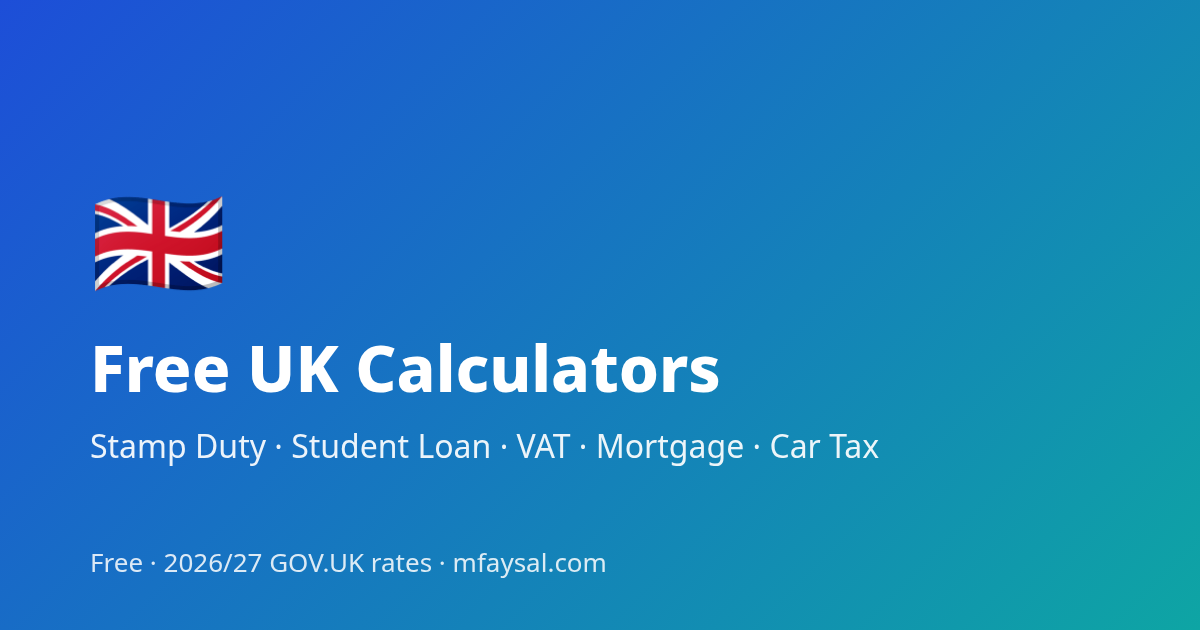
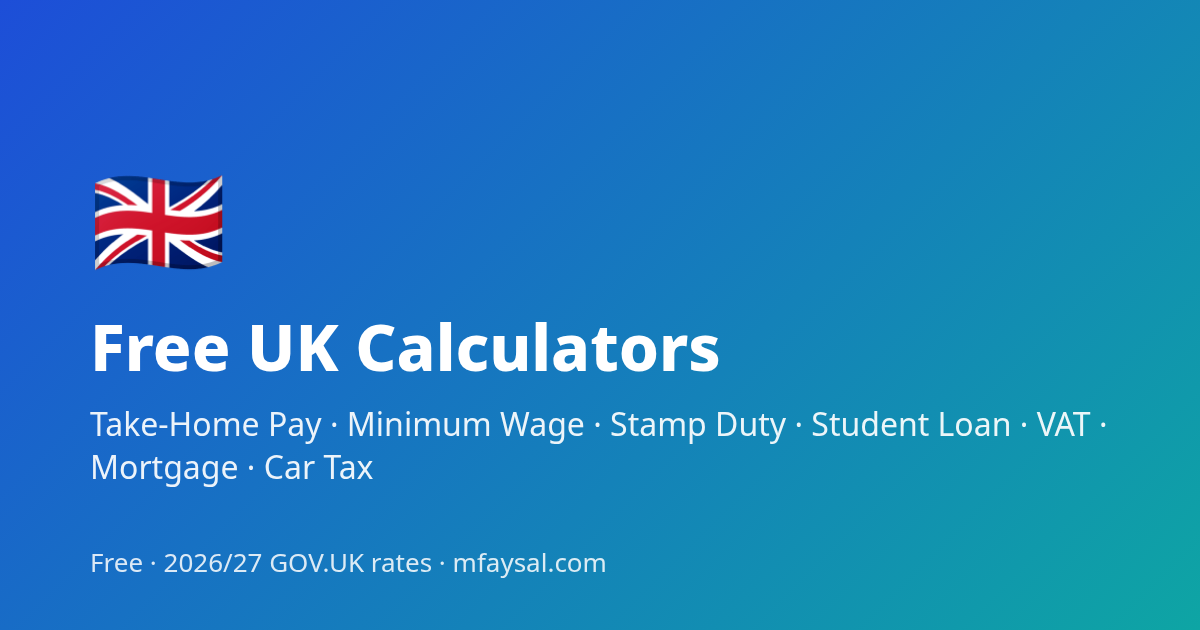
Add take-home pay and minimum wage calculators (2026/27 GOV.UK rates) with tests

Changed region(s): [[0.0617, 0.5127, 0.6167, 0.6333], [0.0617, 0.6333, 0.925, 0.7841], [0.0617, 0.2714, 0.185, 0.4825]]

diff --git a/build.js b/build.js
@@ -89,6 +89,45 @@ const tools = [
   ${[['0','£10','£10'],['1–50','£115','£135'],['51–75','£135','£280'],['76–90','£280','£365'],['91–100','£365','£405'],['101–110','£405','£455'],['111–130','£455','£560'],['131–150','£560','£1,410'],['151–170','£1,410','£2,270'],['171–190','£2,270','£3,420'],['191–225','£3,420','£4,850'],['226–255','£4,850','£5,690'],['Over 255','£5,690','£5,690']].map(r=>`<tr><td>${r[0]}</td><td>${r[1]}</td><td>${r[2]}</td></tr>`).join('')}</tbody></table>`,
   sources:[['GOV.UK / DVLA – V149 rates of vehicle tax from 1 April 2026','https://www.gov.uk/government/publications/rates-of-vehicle-tax-v149'],['GOV.UK – Vehicle tax for electric and low emission vehicles','https://www.gov.uk/guidance/vehicle-tax-for-electric-and-low-emissions-vehicles'],['GOV.UK – Check vehicle tax rates','https://www.gov.uk/vehicle-tax-rate-tables']],
   faq:[['Do electric cars pay road tax in 2026?','Yes. Since April 2025 EVs pay £10 in the first year then the £200 standard rate, plus £440 if the list price was over £50,000.'],['Is this for older cars?','No – cars registered before 1 April 2017 are taxed on CO2 bands. Use the GOV.UK vehicle tax checker for those.']]},
+{ slug:'take-home-pay-calculator', ico:'💷', short:'Take-Home Pay', title:'Take-Home Pay Calculator UK 2026/27 – Income Tax, NI & Pension',
+  h1:'Take-Home Pay Calculator (Income Tax & National Insurance)',
+  desc:'Free UK salary calculator for 2026/27. See your take-home pay after income tax (England, Wales, NI or Scotland), National Insurance, pension and student loan – yearly, monthly and weekly.',
+  intro:'Enter your yearly salary to see what lands in your bank account after tax, National Insurance, pension and student loan.',
+  form: seg('region','Where do you pay income tax?',[['ruk','England, Wales or NI'],['sco','Scotland']],'ruk') + money('salary','Yearly salary before tax',35000) +
+    seg('pensionType','Workplace pension',[['none','None'],['net','Net pay / relief at source (approx.)'],['sacrifice','Salary sacrifice']],'none') + num('pension','Pension contribution','5','% of salary','0.5') +
+    `<fieldset><legend>Student loan</legend>${chk('plan1','Plan 1')}${chk('plan2','Plan 2')}${chk('plan4','Plan 4 (Scotland)')}${chk('plan5','Plan 5')}${chk('pg','Postgraduate Loan')}</fieldset>`,
+  js:`var plans=['plan1','plan2','plan4','plan5'].filter(function(k){return val(k)});
+  var r=UKCalc.takeHome({salary:+val('salary'),region:radio('region'),pension:+val('pension'),pensionType:radio('pensionType'),plans:plans,pg:val('pg')});
+  out.innerHTML='<p class="hint">Take-home pay per year</p><p class="big">'+fmt(r.net)+'</p><dl class="kv"><dt>Per month</dt><dd>'+fmt(r.monthly)+'</dd><dt>Per week</dt><dd>'+fmt(r.weekly)+'</dd><dt>Income tax</dt><dd>'+fmt(r.incomeTax)+'</dd><dt>National Insurance</dt><dd>'+fmt(r.ni)+'</dd>'
+  +(r.pension?'<dt>Pension</dt><dd>'+fmt(r.pension)+'</dd>':'')+(r.studentLoan?'<dt>Student loan</dt><dd>'+fmt(r.studentLoan)+'</dd>':'')
+  +'<dt>Personal Allowance</dt><dd>'+fmt(r.personalAllowance)+'</dd><dt>Marginal rate (tax + NI)</dt><dd>'+r.marginal+'%</dd></dl>'
+  +'<table><caption class="sr">Income tax by band</caption><thead><tr><th scope="col">Taxable income</th><th scope="col">Rate</th><th scope="col">Tax</th></tr></thead><tbody>'+r.rows.map(function(x){return '<tr><td>'+fmt(x.from)+' – '+fmt(x.to)+'</td><td>'+Math.round(x.rate*100)+'%</td><td>'+fmt(x.tax)+'</td></tr>'}).join('')+'</tbody></table>';`,
+  prose:`<h2>Income tax rates ${YEAR}</h2><p><strong>England, Wales and Northern Ireland:</strong> Personal Allowance £12,570 at 0%, basic rate 20% on £12,571 to £50,270, higher rate 40% on £50,271 to £125,140, additional rate 45% above £125,140.</p>
+  <p><strong>Scotland:</strong> starter 19% (£12,571–£16,537), basic 20% (to £29,526), intermediate 21% (to £43,662), higher 42% (to £75,000), advanced 45% (to £125,140) and top 48% above.</p>
+  <p>Your Personal Allowance falls by £1 for every £2 of adjusted net income over £100,000, so it is zero at £125,140. Between those figures the effective income tax rate is 60%.</p>
+  <h2>National Insurance ${YEAR}</h2><p>Employees pay Class 1 NI at <strong>8%</strong> on earnings between £12,570 and £50,270 a year (£242 to £967 a week) and <strong>2%</strong> above that.</p>
+  <h2>Worked example</h2><p>£30,000 salary in England: tax = 20% × (£30,000 − £12,570) = <strong>£3,486</strong>; NI = 8% × £17,430 = <strong>£1,394.40</strong>; take-home = <strong>£25,119.60</strong> a year (£2,093.30 a month).</p>`,
+  sources:[['GOV.UK – Income Tax rates and Personal Allowances','https://www.gov.uk/income-tax-rates'],['GOV.UK – Scottish Income Tax 2026 to 2027','https://www.gov.uk/scottish-income-tax'],['GOV.UK – Rates and allowances: National Insurance contributions','https://www.gov.uk/government/publications/rates-and-allowances-national-insurance-contributions/rates-and-allowances-national-insurance-contributions'],['GOV.UK – Repaying your student loan','https://www.gov.uk/repaying-your-student-loan/what-you-pay']],
+  faq:[['What is the tax-free Personal Allowance for 2026/27?','£12,570, frozen until April 2031. It is reduced by £1 for every £2 of income over £100,000.'],['Why is my payslip slightly different?','Payroll works out tax and NI per pay period using your tax code, so monthly figures can differ by a few pounds. Bonuses, benefits in kind and a non-standard tax code also change the result.'],['Does salary sacrifice save National Insurance?','Yes. Salary sacrifice reduces your pay before both tax and NI. Net pay arrangements save tax but not NI.']]},
+
+{ slug:'minimum-wage-calculator', ico:'⏱', short:'Minimum Wage', title:'Minimum Wage Calculator UK April 2026 – Am I Paid Enough?',
+  h1:'Minimum Wage Checker (National Living Wage 2026)',
+  desc:'Check your hourly pay against the UK National Living Wage (£12.71) and National Minimum Wage rates from 1 April 2026 for your age and apprenticeship, and see any shortfall.',
+  intro:'Enter your age, hourly pay and hours to check you are getting at least the legal minimum.',
+  form: num('age','Your age','22','years','1') + chk('apprentice','I am an apprentice') + chk('firstYear','I am in the first year of my apprenticeship') +
+    money('hourly','Your hourly pay','12.50','before tax') + num('hours','Hours per week','37.5','','0.5') + seg('year','Rates',[['2026','From 1 April 2026'],['2025','April 2025 – March 2026']],'2026'),
+  js:`var r=UKCalc.minWage({age:+val('age'),apprentice:val('apprentice'),firstYear:val('firstYear'),hourly:+val('hourly'),hours:+val('hours'),year:radio('year')});
+  out.innerHTML='<p class="hint">'+r.band+' from '+r.from+'</p><p class="big">'+fmt(r.rate)+' an hour</p>'
+  +(r.ok===undefined?'':(r.ok?'<p><strong>✅ Your pay meets the legal minimum.</strong></p>':'<p><strong>⚠ You may be underpaid by '+fmt(r.shortPerHour)+' an hour ('+fmt(r.shortPerWeek)+' a week, about '+fmt(r.shortPerYear)+' a year).</strong></p>'))
+  +'<dl class="kv"><dt>Minimum per week</dt><dd>'+fmt(r.weeklyMin)+'</dd><dt>Minimum per month (approx.)</dt><dd>'+fmt(r.monthlyMin)+'</dd><dt>Minimum per year</dt><dd>'+fmt(r.yearlyMin)+'</dd></dl>'
+  +'<ul class="notes"><li>Check deductions for uniforms, tools or accommodation too – they can take pay below the minimum. Talk to Acas (0300 123 1100) if you think you are underpaid.</li></ul>';`,
+  prose:`<h2>Minimum wage rates from 1 April 2026</h2><table><thead><tr><th scope="col">Age / type</th><th scope="col">April 2026</th><th scope="col">April 2025</th></tr></thead><tbody>
+  <tr><td>21 and over (National Living Wage)</td><td>£12.71</td><td>£12.21</td></tr><tr><td>18 to 20</td><td>£10.85</td><td>£10.00</td></tr><tr><td>Under 18</td><td>£8.00</td><td>£7.55</td></tr><tr><td>Apprentice</td><td>£8.00</td><td>£7.55</td></tr></tbody></table>
+  <h2>Who gets the apprentice rate?</h2><p>Apprentices under 19, or aged 19 and over in the first year of their apprenticeship, can be paid the apprentice rate. After the first year, apprentices aged 19 or over must get the minimum wage for their age.</p>
+  <h2>Worked example</h2><p>A 25-year-old working 37.5 hours a week must earn at least 37.5 × £12.71 = <strong>£476.63</strong> a week, or <strong>£24,784.50</strong> a year.</p>`,
+  sources:[['GOV.UK – National Minimum Wage and National Living Wage rates','https://www.gov.uk/national-minimum-wage-rates'],['GOV.UK – Who gets the minimum wage','https://www.gov.uk/national-minimum-wage/who-gets-the-minimum-wage'],['Acas – National Minimum Wage and National Living Wage','https://www.acas.org.uk/national-minimum-wage-entitlement']],
+  faq:[['What is the National Living Wage in 2026?','£12.71 an hour for workers aged 21 and over, from 1 April 2026 (up from £12.21).'],['What is the minimum wage for an 18 year old in 2026?','£10.85 an hour for 18 to 20 year olds, or £8.00 if they are an apprentice.'],['What can I do if I am underpaid?','Speak to your employer first, then contact Acas or complain to HMRC. Employers must pay back arrears at current rates.']]}
+
 ];
 
 const nav = cur => `<nav class="nav" aria-label="Main"><a href="/">🇬🇧 UK Calculators</a><div class="links">${tools.map(t=>`<a href="/${t.slug}/"${t.slug===cur?' aria-current="page"':''}>${t.short}</a>`).join('')}</div></nav>`;
@@ -114,7 +153,7 @@ ${foot}<script src="/assets/calc.js"></script><script src="/assets/ui.js"></scri
 }
 
 function home() {
-  const t = { title:'Free UK Calculators 2026/27 – Stamp Duty, Student Loan, VAT, Mortgage & Car Tax', desc:'Five free, fast UK calculators using official 2026/27 GOV.UK rates: stamp duty (SDLT/LBTT/LTT), student loan repayments, VAT, mortgage repayments and car tax.', slug:'' };
+  const t = { title:'Free UK Calculators 2026/27 – Take-Home Pay, Stamp Duty, Student Loan & More', desc:'Seven free, fast UK calculators using official 2026/27 GOV.UK rates: take-home pay, minimum wage, stamp duty, student loan, VAT, mortgage and car tax.', slug:'' };
   const ld = {'@context':'https://schema.org','@type':'WebSite',name:'UK Calculators',url:BASE+'/',inLanguage:'en-GB',author:{'@type':'Person',name:'Mahir Faysal',url:'https://mfaysal.com/'}};
   return head(t,BASE+'/',ld)+`<body><header class="top"><div class="wrap">${nav('')}<div class="hero"><h1>Free UK Calculators</h1><p>Quick, private and free – everything runs in your browser. Built on official ${YEAR} rates from GOV.UK.</p></div></div></header>
 <main class="wrap"><div class="tools">${tools.map(x=>`<a href="/${x.slug}/"><div class="card"><div class="ico" aria-hidden="true">${x.ico}</div><h2>${x.h1}</h2><p>${x.desc}</p></div></a>`).join('')}</div>
@@ -127,7 +166,7 @@ if (fs.existsSync(path.join(__dirname,'og'))) fs.cpSync(path.join(__dirname,'og'
 fs.writeFileSync(out+'/index.html', home());
 for (const t of tools) { fs.mkdirSync(out+'/'+t.slug,{recursive:true}); fs.writeFileSync(out+'/'+t.slug+'/index.html', page(t)); }
 fs.writeFileSync(out+'/robots.txt', `User-agent: *\nAllow: /\nSitemap: ${BASE}/sitemap.xml\n`);
-fs.writeFileSync(out+'/sitemap.xml', `<?xml version="1.0" encoding="UTF-8"?><urlset xmlns="http://www.sitemaps.org/schemas/sitemap/0.9">${['',...tools.map(t=>t.slug+'/')].map(s=>`<url><loc>${BASE}/${s}</loc><lastmod>2026-10-12</lastmod></url>`).join('')}</urlset>\n`);
+fs.writeFileSync(out+'/sitemap.xml', `<?xml version="1.0" encoding="UTF-8"?><urlset xmlns="http://www.sitemaps.org/schemas/sitemap/0.9">${['',...tools.map(t=>t.slug+'/')].map(s=>`<url><loc>${BASE}/${s}</loc><lastmod>2026-10-13</lastmod></url>`).join('')}</urlset>\n`);
 fs.writeFileSync(out+'/404.html', home().replace('<h1>Free UK Calculators</h1>','<h1>Page not found</h1>'));
 fs.writeFileSync(path.join(__dirname,'tools.json'), JSON.stringify(tools.map(t=>({slug:t.slug,title:t.title,h1:t.h1,desc:t.desc,ico:t.ico})),null,1));
 console.log('built', tools.length, 'tools ->', BASE);

diff --git a/assets/calc.js b/assets/calc.js
@@ -43,7 +43,16 @@
       standard: 200, supplement: 440, threshold: 40000, thresholdEV: 50000,
       sixMonth: 110, ddMonthlyTotal: 210, ddSixMonthly: 105
     },
-    vat: { standard: .20, reduced: .05, zero: 0 }
+    vat: { standard: .20, reduced: .05, zero: 0 },
+    // Income tax 2026/27 – bands are on TAXABLE income (after Personal Allowance)
+    incomeTax: { pa: 12570, taperFrom: 100000,
+      ruk: [[37700, .20], [125140, .40], [INF, .45]],
+      sco: [[3967, .19], [16956, .20], [31092, .21], [62430, .42], [125140, .45], [INF, .48]] },
+    // Employee Class 1 NI 2026/27 (annual equivalents of PT £242/wk and UEL £967/wk as used by HMRC: £12,570 / £50,270)
+    ni: { pt: 12570, uel: 50270, main: .08, upper: .02 },
+    // National Minimum Wage / National Living Wage hourly rates
+    nmw: { '2026': { from: '1 April 2026', a21: 12.71, a18: 10.85, u18: 8.00, app: 8.00 },
+           '2025': { from: '1 April 2025', a21: 12.21, a18: 10.00, u18: 7.55, app: 7.55 } }
   };
 
   function stampDuty(o) {
@@ -122,6 +131,45 @@
              sixYearTotal: first + std * 5 };
   }
 
-  var api = { RATES: RATES, banded: banded, stampDuty: stampDuty, studentLoan: studentLoan, vat: vat, mortgage: mortgage, carTax: carTax };
+  // Take-home pay (annual). o: salary, region 'ruk'|'sco', pension %, pensionType 'none'|'net'|'sacrifice', plans[], pg
+  function takeHome(o) {
+    var T = RATES.incomeTax, N = RATES.ni, gross = Math.max(0, +o.salary || 0);
+    var pct = Math.max(0, +o.pension || 0) / 100, ptype = o.pensionType || 'none';
+    var pension = ptype === 'none' ? 0 : r2(gross * pct);
+    var niPay = ptype === 'sacrifice' ? gross - pension : gross;       // sacrifice lowers NI-able pay
+    var taxPay = gross - pension;                                     // both net pay and sacrifice lower taxable pay
+    var pa = Math.max(0, T.pa - Math.floor(Math.max(0, taxPay - T.taperFrom) / 2));
+    var taxable = Math.max(0, taxPay - pa);
+    var bands = o.region === 'sco' ? T.sco : T.ruk;
+    var it = banded(taxable, bands);
+    var ni = r2(Math.max(0, Math.min(niPay, N.uel) - N.pt) * N.main + Math.max(0, niPay - N.uel) * N.upper);
+    var sl = studentLoan({ income: niPay, plans: o.plans || [], pg: o.pg, period: 'year' });
+    var net = r2(gross - pension - it.tax - ni - sl.total);
+    return { gross: r2(gross), pension: pension, personalAllowance: pa, taxable: r2(taxable), incomeTax: it.tax, rows: it.rows,
+      ni: ni, studentLoan: sl.total, net: net, monthly: r2(net / 12), weekly: r2(net / 52),
+      marginal: marginalRate(o), effectiveRate: gross ? r2((it.tax + ni) / gross * 100) : 0 };
+  }
+  function marginalRate(o) {
+    // simple numeric marginal rate on tax + NI for the next £100
+    if (o._m) return null;
+    var a = takeHomeRaw(o, 0), b = takeHomeRaw(o, 100);
+    return r2((1 - (b - a) / 100) * 100);
+  }
+  function takeHomeRaw(o, add) { var c = {}; for (var k in o) c[k] = o[k]; c._m = 1; c.salary = (+o.salary || 0) + add; return takeHome(c).net; }
+
+  // Minimum wage check. o: age, apprentice, firstYear, hourly, hours (per week), year '2026'|'2025'
+  function minWage(o) {
+    var R = RATES.nmw[o.year || '2026'], age = +o.age || 0, band, rate;
+    if (o.apprentice && (age < 19 || o.firstYear)) { band = 'Apprentice rate'; rate = R.app; }
+    else if (age >= 21) { band = 'National Living Wage (21 and over)'; rate = R.a21; }
+    else if (age >= 18) { band = 'National Minimum Wage (18 to 20)'; rate = R.a18; }
+    else { band = 'National Minimum Wage (under 18)'; rate = R.u18; }
+    var hours = Math.max(0, +o.hours || 0), hourly = +o.hourly || 0;
+    var res = { band: band, rate: rate, from: R.from, weeklyMin: r2(rate * hours), yearlyMin: r2(rate * hours * 52), monthlyMin: r2(rate * hours * 52 / 12) };
+    if (hourly) { res.ok = hourly >= rate; res.shortPerHour = r2(Math.max(0, rate - hourly)); res.shortPerWeek = r2(res.shortPerHour * hours); res.shortPerYear = r2(res.shortPerHour * hours * 52); }
+    return res;
+  }
+
+  var api = { RATES: RATES, banded: banded, stampDuty: stampDuty, studentLoan: studentLoan, vat: vat, mortgage: mortgage, carTax: carTax, takeHome: takeHome, minWage: minWage };
   if (typeof module !== 'undefined' && module.exports) module.exports = api; else root.UKCalc = api;
 })(this);

diff --git a/tests/calc.test.js b/tests/calc.test.js
@@ -28,3 +28,24 @@ test('VED EV first year £10, standard £200', () => { const r = C.carTax({ fuel
 test('VED EV over £50k = £640', () => assert.equal(C.carTax({ fuel: 'electric', listPrice: 55000 }).standard, 640));
 test('VED petrol over £40k = £640, 6-month £352', () => { const r = C.carTax({ co2: 120, listPrice: 45000 }); assert.equal(r.standard, 640); assert.equal(r.sixMonth, 352); });
 test('VED DD monthly standard £17.50', () => assert.equal(C.carTax({ co2: 120 }).ddMonthly, 17.5));
+// Take-home pay 2026/27 (hand-checked against GOV.UK income tax and NI rates)
+test('Take-home £30,000 rUK: tax £3,486, NI £1,394.40', () => { const r = C.takeHome({ salary: 30000 }); assert.equal(r.incomeTax, 3486); assert.equal(r.ni, 1394.4); assert.equal(r.net, 25119.6); });
+test('Take-home £60,000 rUK: tax £11,432, NI £3,210.60', () => { const r = C.takeHome({ salary: 60000 }); assert.equal(r.incomeTax, 11432); assert.equal(r.ni, 3210.6); });
+test('Personal allowance tapers to 0 at £125,140', () => assert.equal(C.takeHome({ salary: 125140 }).personalAllowance, 0));
+test('£110,000 PA = £7,570', () => assert.equal(C.takeHome({ salary: 110000 }).personalAllowance, 7570));
+test('£110,000 marginal rate 62% (60% tax + 2% NI)', () => assert.equal(C.takeHome({ salary: 110000 }).marginal, 62));
+test('Scotland £30,000 tax: 19%×3,967 + 20%×12,989 + 21%×474', () => assert.equal(C.takeHome({ salary: 30000, region: 'sco' }).incomeTax, 3451.07));
+test('Below allowance = no tax, no NI', () => { const r = C.takeHome({ salary: 12000 }); assert.equal(r.incomeTax, 0); assert.equal(r.ni, 0); assert.equal(r.net, 12000); });
+test('Salary sacrifice 5% of £40,000 cuts tax and NI', () => { const r = C.takeHome({ salary: 40000, pension: 5, pensionType: 'sacrifice' }); assert.equal(r.pension, 2000); assert.equal(r.incomeTax, 5086); assert.equal(r.ni, 2034.4); });
+test('Net-pay pension keeps NI on full pay', () => assert.equal(C.takeHome({ salary: 40000, pension: 5, pensionType: 'net' }).ni, 2194.4));
+test('Plan 2 student loan in take-home £40,000 = £955.35', () => assert.equal(C.takeHome({ salary: 40000, plans: ['plan2'] }).studentLoan, 955.35));
+// Minimum wage April 2026 (GOV.UK)
+test('NLW 21+ = £12.71', () => assert.equal(C.minWage({ age: 25 }).rate, 12.71));
+test('18-20 = £10.85', () => assert.equal(C.minWage({ age: 19 }).rate, 10.85));
+test('Under 18 = £8.00', () => assert.equal(C.minWage({ age: 17 }).rate, 8));
+test('Apprentice 21 first year = £8', () => assert.equal(C.minWage({ age: 21, apprentice: true, firstYear: true }).rate, 8));
+test('Apprentice 21 after first year = £12.71', () => assert.equal(C.minWage({ age: 21, apprentice: true }).rate, 12.71));
+test('Apprentice 18 (under 19) = £8 any year', () => assert.equal(C.minWage({ age: 18, apprentice: true }).rate, 8));
+test('£12.00/hr at 25, 37.5 h: short £0.71/h, £26.63/wk', () => { const r = C.minWage({ age: 25, hourly: 12, hours: 37.5 }); assert.equal(r.ok, false); assert.equal(r.shortPerWeek, 26.63); });
+test('2025/26 NLW was £12.21', () => assert.equal(C.minWage({ age: 30, year: '2025' }).rate, 12.21));
+test('Full-time NLW yearly 37.5h = £24,784.50', () => assert.equal(C.minWage({ age: 30, hours: 37.5 }).yearlyMin, 24784.5));

diff --git a/README.md b/README.md
@@ -1,11 +1,13 @@
 # UK Calculators (2026/27)
 
-Five free, fast, privacy-friendly UK calculators. Everything runs in the browser – no tracking, no data sent anywhere.
+Seven free, fast, privacy-friendly UK calculators. Everything runs in the browser – no tracking, no data sent anywhere.
 
 **Live:** https://uk-calculators.vercel.app · **Author:** [Mahir Faysal – mfaysal.com](https://mfaysal.com/)
 
 | Tool | What it does |
 | --- | --- |
+| [Take-Home Pay](https://uk-calculators.vercel.app/take-home-pay-calculator/) | Income tax (rUK & Scotland), National Insurance, pension (net pay / salary sacrifice), student loan – yearly, monthly, weekly |
+| [Minimum Wage](https://uk-calculators.vercel.app/minimum-wage-calculator/) | Check hourly pay against the April 2026 National Living Wage / NMW by age and apprenticeship, with shortfall |
 | [Stamp Duty](https://uk-calculators.vercel.app/stamp-duty-calculator/) | SDLT (England & NI), LBTT (Scotland), LTT (Wales), first-time buyer relief, second-home & non-resident surcharges |
 | [Student Loan](https://uk-calculators.vercel.app/student-loan-repayment-calculator/) | Plan 1, 2, 4, 5 and Postgraduate Loan repayments – yearly, monthly, weekly |
 | [VAT](https://uk-calculators.vercel.app/vat-calculator/) | Add or remove VAT at 20%, 5% or 0% |
